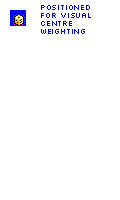
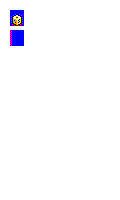
Change: improve appearance of buy menu sprite for randomised wagons (docs image currently known broken)

Changed region(s): [[0.325, 0.0, 0.75, 0.18], [0.075, 0.03, 0.225, 0.24]]

diff --git a/src/gestalt_graphics/pipelines.py b/src/gestalt_graphics/pipelines.py
@@ -3,7 +3,7 @@ import os.path
 currentdir = os.curdir
 
 import filecmp
-from PIL import Image
+from PIL import Image, ImageOps
 
 import polar_fox
 from polar_fox.graphics_units import (
@@ -496,7 +496,12 @@ class GenerateBuyMenuSpritesheetFromRandomisationCandidatesPipeline(Pipeline):
                 "GenerateBuyMenuSpritesheetFromRandomisationCandidatesPipeline won't work with articulated consists - called by "
                 + self.consist.id
             )
-        buy_menu_width_pixels = 4 * self.consist.units[0].vehicle_length
+        unit_length_in_pixels = 4 * self.consist.units[0].vehicle_length
+        unit_slice_length_in_pixels = int(unit_length_in_pixels / 2)
+        dice_image_width = graphics_constants.dice_image_width
+        dice_image_height = 16
+        fade_image_width = 2
+        fade_image_height = 16
 
         for counter, source_wagon in enumerate(source_wagons):
             # note that we want the *generated* source wagon spritesheet
@@ -508,22 +513,22 @@ class GenerateBuyMenuSpritesheetFromRandomisationCandidatesPipeline(Pipeline):
             if self.consist.id == "randomised_box_car_pony_gen_1A":
                 # source_wagon_image.show()
                 pass
-            unit_slice_length_in_pixels = int(buy_menu_width_pixels / 2)
-            x_offset = counter * unit_slice_length_in_pixels
+            x_offset_src = unit_slice_length_in_pixels + (-1 * counter * unit_slice_length_in_pixels)
+            x_offset_dst = counter * (unit_slice_length_in_pixels + dice_image_width + 1)
             crop_box_src = (
-                224 + x_offset,
+                224 + x_offset_src,
                 10,
                 224
-                + x_offset
+                + x_offset_src
                 + unit_slice_length_in_pixels
                 + 1,  # allow for 1px coupler / corrider overhang
                 26,
             )
             crop_box_dest = (
-                360 + x_offset,
+                360 + x_offset_dst,
                 10,
                 360
-                + x_offset
+                + x_offset_dst
                 + unit_slice_length_in_pixels
                 + 1,  # allow for 1px coupler / corrider overhang
                 26,
@@ -531,11 +536,9 @@ class GenerateBuyMenuSpritesheetFromRandomisationCandidatesPipeline(Pipeline):
             custom_buy_menu_sprite = source_wagon_image.crop(crop_box_src)
             spritesheet.sprites.paste(custom_buy_menu_sprite, crop_box_dest)
 
-        overlay_image_width = 16
-        overlay_image_height = 16
-        overlay_image = Image.open(
+        dice_image = Image.open(
             os.path.join(currentdir, "src", "graphics", "randomised_wagon_overlay.png")
-        ).crop((10, 10, 10 + overlay_image_width, 10 + overlay_image_height))
+        ).crop((10, 10, 10 + dice_image_width, 10 + dice_image_height))
         dice_recolour_maps = {
             1: {188: 9, 51: 12, 69: 15},
             2: {188: 188, 51: 51, 69: 69},
@@ -544,27 +547,43 @@ class GenerateBuyMenuSpritesheetFromRandomisationCandidatesPipeline(Pipeline):
         dice_recolour_map = dice_recolour_maps[
             self.consist.gestalt_graphics.dice_colour
         ]
-        overlay_image = overlay_image.point(
+        dice_image = dice_image.point(
             lambda i: dice_recolour_map[i] if i in dice_recolour_map.keys() else i
         )
-        # create a mask so that we paste only the overlay pixels (no blue pixels)
-        overlay_mask = overlay_image.copy()
-        overlay_mask = overlay_mask.point(lambda i: 0 if i == 0 else 255).convert("1")
-        # now magically replace pink to another colour (dark grey maybe best?), so we can create a blend effect where the two source wagons abut
-        overlay_image = overlay_image.point(
+        # now magically replace pink to another colour (dark grey maybe best?)
+        dice_image = dice_image.point(
             lambda i: dice_recolour_map[188] if i == 226 else i
         )
-        x_offset = int(buy_menu_width_pixels / 2) - int(overlay_image_width / 2)
+        x_offset = unit_slice_length_in_pixels + 1
         crop_box_dest = (
             360 + x_offset,
             10,
-            360 + x_offset + overlay_image_width,  # overlay image width
-            10 + overlay_image_height,
+            360 + x_offset + dice_image_width,
+            10 + dice_image_height,
         )
-        spritesheet.sprites.paste(overlay_image, crop_box_dest, overlay_mask)
+        spritesheet.sprites.paste(dice_image, crop_box_dest)
 
-        if self.consist.id == "randomised_box_car_pony_gen_1A":
-            # spritesheet.sprites.show()
+        fade_image = Image.open(
+            os.path.join(currentdir, "src", "graphics", "randomised_wagon_overlay.png")
+        ).crop((10, 30, 10 + fade_image_width, 30 + fade_image_height))
+        # create a mask so that we paste only the overlay pixels (no blue pixels)
+        fade_image_mask = fade_image.copy()
+        fade_image_mask = fade_image_mask.point(lambda i: 0 if i == 226 else 255).convert("1")
+        for counter in range(2):
+            x_offset = counter * (unit_length_in_pixels + dice_image_width)
+            crop_box_dest = (
+                360 + x_offset,
+                10,
+                360 + x_offset + fade_image_width,
+                10 + dice_image_height,
+            )
+            spritesheet.sprites.paste(fade_image, crop_box_dest, fade_image_mask)
+            # flip the image for the next time we paste it (this creates a better symmetry at each side of the image)
+            fade_image = ImageOps.mirror(fade_image)
+            fade_image_mask = ImageOps.mirror(fade_image_mask)
+
+        if self.consist.id == "randomised_box_car_pony_gen_5B":
+            #spritesheet.sprites.show()
             pass
 
         return spritesheet

diff --git a/src/gestalt_graphics/gestalt_graphics.py b/src/gestalt_graphics/gestalt_graphics.py
@@ -24,6 +24,7 @@ class GestaltGraphics(object):
         # default value for optional mask layer, this is JFDI for 2022, may need converting a more generic spritelayers structure in future
         # set directly by the consist self.gestalt_graphics.add_masked_overlay = True, or by kwargs on a specific gestalt subclass
         self.add_masked_overlay = False
+        self.buy_menu_width_addition = 0
 
     @property
     def nml_template(self):
@@ -127,6 +128,7 @@ class GestaltGraphicsRandomisedWagon(GestaltGraphics):
             ]
         )
         self.dice_colour = kwargs["dice_colour"]
+        self.buy_menu_width_addition = graphics_constants.dice_image_width + 1
         # randomised buy menu sprites depend on generated vehicle spritesheet, so defer processing to round 2
         self.processing_priority = 2
 

diff --git a/src/train.py b/src/train.py
@@ -683,8 +683,9 @@ class Consist(object):
     @property
     def buy_menu_width(self):
         # max sensible width in buy menu is 64px
-        if 4 * self.length < 64:
-            return 4 * self.length
+        calculated_buy_menu_width = 4 * self.length + self.gestalt_graphics.buy_menu_width_addition
+        if calculated_buy_menu_width < 64:
+            return calculated_buy_menu_width
         else:
             return 64
 

diff --git a/src/gestalt_graphics/graphics_constants.py b/src/gestalt_graphics/graphics_constants.py
@@ -29,6 +29,8 @@ spritesheet_top_margin = 10
 # wider than sprites, allows room for custom buy menu sprites, also to print cargo labels to aid drawing / debugging generated cargos
 spritesheet_width = 425
 
+# overlay items for randomised wagons
+dice_image_width = 14
 
 # --- Body Recolour Maps --- #
 
